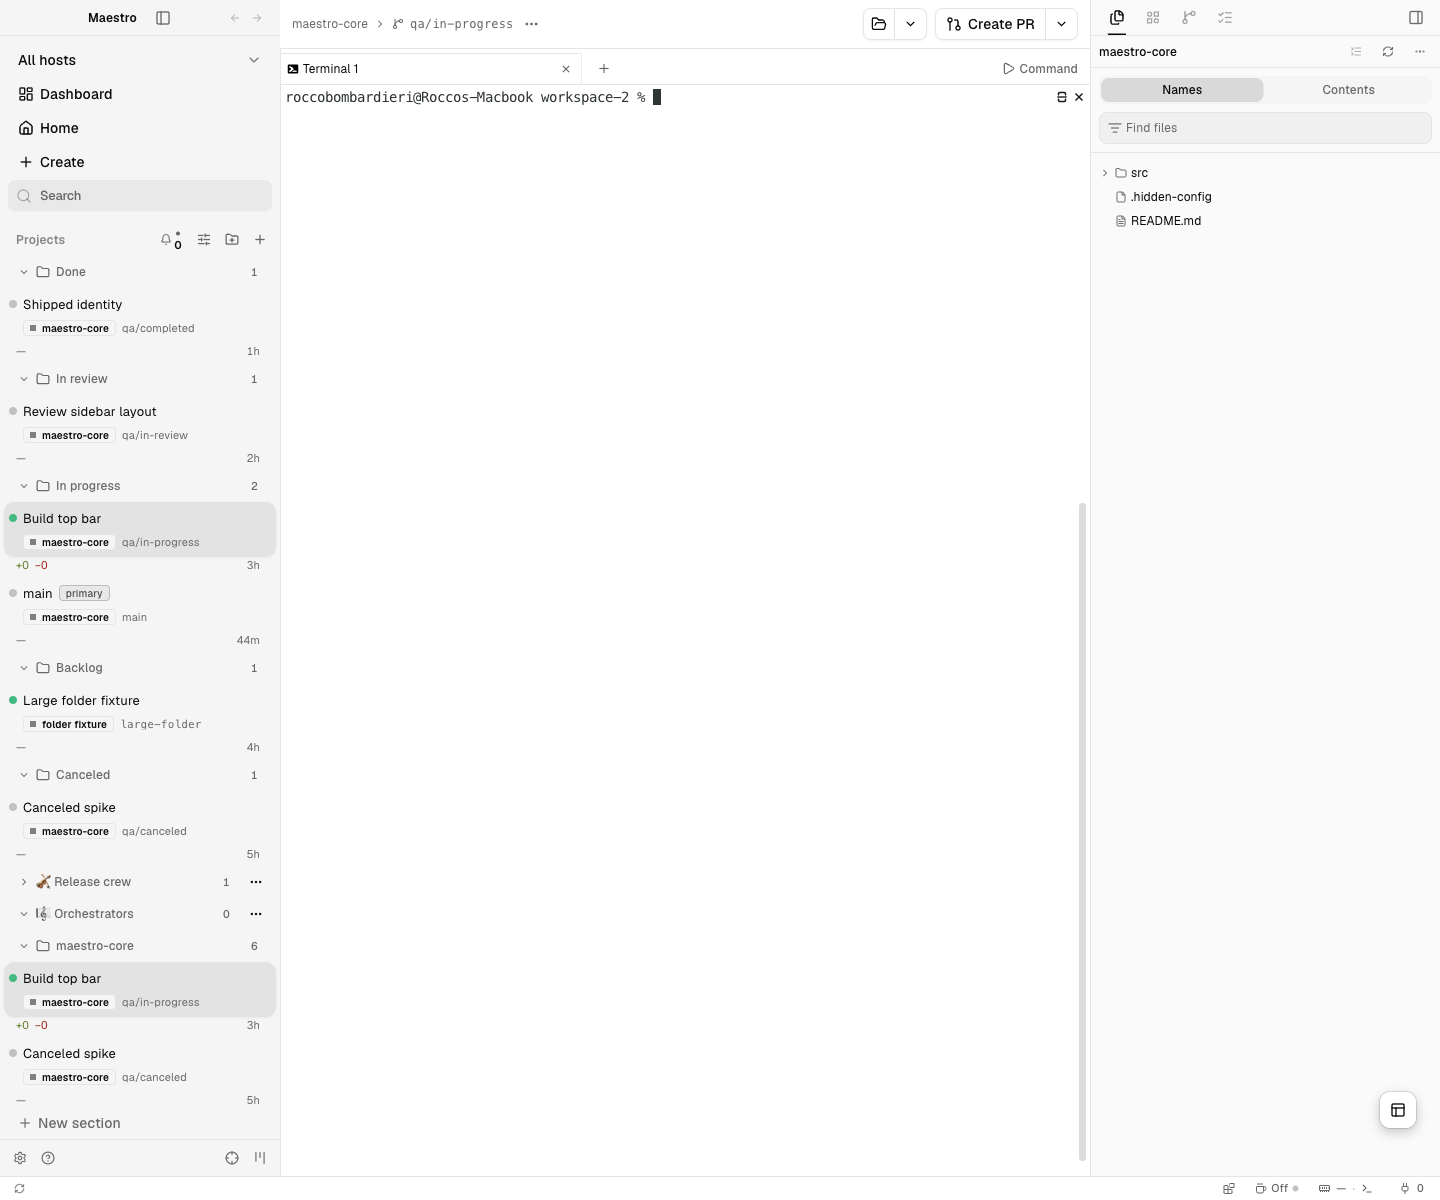
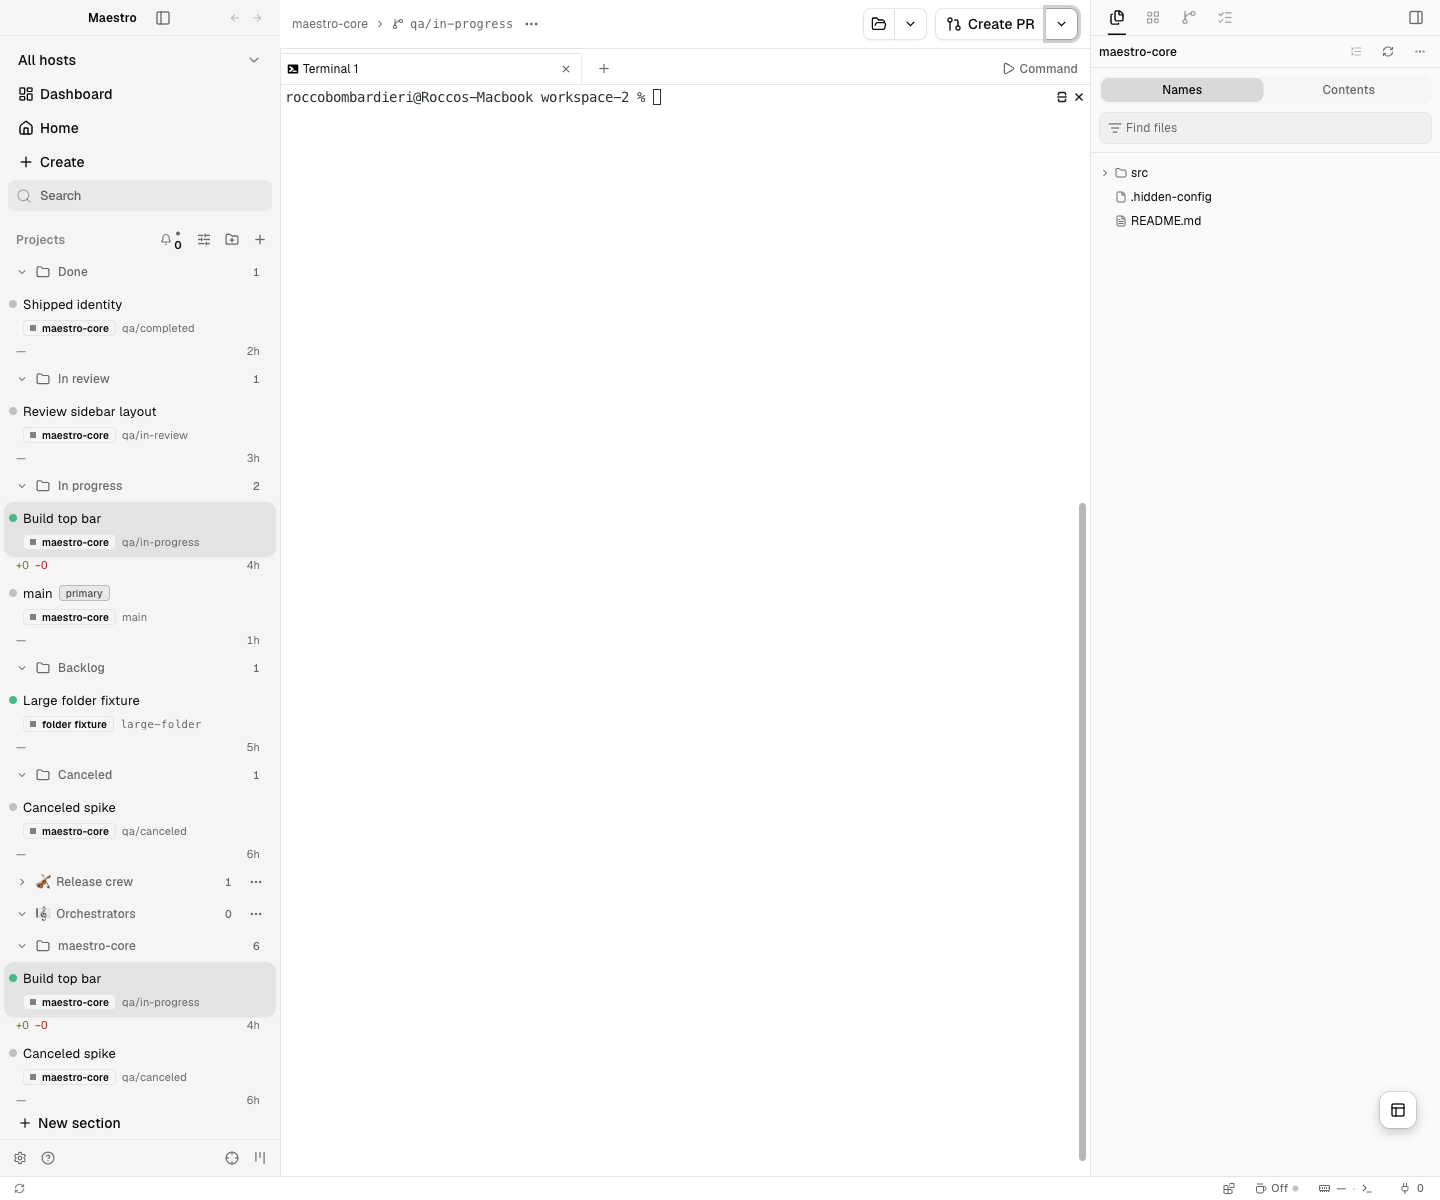
docs: finalize Maestro QA evidence and gate limits
Record the scoped quality passes, relay rerun, rebuilt control screenshots, and explicit broad-suite/type-aware limits without claiming a full aggregate pass.

diff --git a/qa-rocco/REPORT.md b/qa-rocco/REPORT.md
@@ -6,21 +6,39 @@ CLI fixtures, installation/sync tooling, package signing, verification and hando
 
 ## Checks
 
-| Check                                                                                             | Result                                                                                                                                                              |
-| ------------------------------------------------------------------------------------------------- | ------------------------------------------------------------------------------------------------------------------------------------------------------------------- |
-| `pnpm tc`                                                                                         | Passed, including a fresh run after the sidebar change.                                                                                                             |
-| Focused CLI, credentials, profile/startup, status, host ownership, dotfile and virtual-list tests | 42 files passed; 158 tests passed; 2 files / 10 tests skipped by platform guards.                                                                                   |
-| `pnpm check:react-compiler-compat-ratchet`                                                        | Passed; no new compiler baseline exception.                                                                                                                         |
-| `pnpm check:changed --base=rocco/main --maxWorkers=2`                                             | Final run in progress; result to be recorded before handoff.                                                                                                        |
-| Sync shell syntax and installer JavaScript syntax                                                 | Passed.                                                                                                                                                             |
-| Disposable Git sync fixture                                                                       | Passed merge, unchanged baseline, cleanup, no-op detection and conflict report/exit checks. pnpm validation commands were stubbed; see `upstream-sync-fixture.txt`. |
-| Disposable-HOME installer fixture                                                                 | Passed installation/replacement, relative framework symlinks, operation after deleting the source, and staging/backup cleanup.                                      |
-| Packaged macOS arm64 app                                                                          | Passed electron-builder packaging and `codesign --verify --deep --strict`; bundle ID `dev.rocco.maestro`, ad hoc signature.                                         |
-| Hidden packaged Electron / CDP                                                                    | Passed isolated HOME/userData and invisible, unfocused window checks; saved sections survived app restart.                                                          |
+| Check                                                                                             | Result                                                                                                                                                                  |
+| ------------------------------------------------------------------------------------------------- | ----------------------------------------------------------------------------------------------------------------------------------------------------------------------- |
+| `pnpm tc`                                                                                         | Passed, including a fresh run after the sidebar change.                                                                                                                 |
+| Focused CLI, credentials, profile/startup, status, host ownership, dotfile and virtual-list tests | 42 files passed; 158 tests passed; 2 files / 10 tests skipped by platform guards.                                                                                       |
+| `pnpm check:react-compiler-compat-ratchet`                                                        | Passed; no new compiler baseline exception.                                                                                                                             |
+| `pnpm check:changed --base=rocco/main --maxWorkers=2`                                             | Full aggregate remains unverified: the 30-minute run timed out in related tests and type-aware lint. Generated JSON formatting was corrected; scoped results are below. |
+| Sync shell syntax and installer JavaScript syntax                                                 | Passed.                                                                                                                                                                 |
+| Disposable Git sync fixture                                                                       | Passed merge, unchanged baseline, cleanup, no-op detection and conflict report/exit checks. pnpm validation commands were stubbed; see `upstream-sync-fixture.txt`.     |
+| Disposable-HOME installer fixture                                                                 | Passed installation/replacement, relative framework symlinks, operation after deleting the source, and staging/backup cleanup.                                          |
+| Packaged macOS arm64 app                                                                          | Passed electron-builder packaging and `codesign --verify --deep --strict`; bundle ID `dev.rocco.maestro`, ad hoc signature.                                             |
+| Hidden packaged Electron / CDP                                                                    | Passed isolated HOME/userData and invisible, unfocused window checks; saved sections survived app restart.                                                              |
 
 Commands used the previous session's cached Node 24.22.2 and pnpm 12.14.0.
 Focused tests used a disposable HOME with global/system Git config disabled.
 Native-focus tests remain excluded on the user's desktop.
+
+The broad run completed 39 checks successfully before reporting formatting of
+`final-launch-isolation.json` and the two 30-minute limits. The JSON was formatted.
+It also logged one failure in the delegated-phone locator integration case before
+timing out; running its entire file directly with a disposable HOME passed all
+18 tests. That failure did not reproduce, and no relay test or source was changed.
+
+After fixing 14 design-system diagnostics, all eight non-type-aware changed-line
+lint/structural checks passed across 110 changed source files against rocco/main;
+see `scoped-quality.json`. Type-aware lint of `cli-installer.ts` separately returned
+zero diagnostics. The complete type-aware scan did not finish, so this is scoped
+evidence under AGENTS.md's excessive-selection fallback, not a full quality pass.
+The final host-picker/list/status test selection passed 4 files / 15 tests after
+the style fixes, also under a disposable HOME. Some overlap the earlier selection.
+
+The final aggregate command is repeated after the last edit/commit with
+`--base=rocco/main --maxWorkers=2 --timeout=10`, retaining a bounded local budget.
+Full-suite success is not inferred from the focused passes.
 
 The package reused completed desktop/native assets, rebuilt the modified main and
 renderer targets, projected the web client, checked the Electron native runtime,
@@ -48,6 +66,11 @@ Conductor references. Maestro retains Orca's tokens and primitives.
 | `final-launch-isolation.json`         | Finished package's invisible/unfocused window and disposable profile paths.                                                                       |
 | `restart-persistence.json`            | Saved name/emoji/assignment survived app restart; expand/collapse and reorder worked through the UI and survived reload; no page errors observed. |
 
+The final Open in/PR captures also verify the existing ButtonGroup primitive;
+`control-composition.json` records opening both menus and the host chooser without
+page errors. Section headers use the existing menu size, and HostCombobox keeps
+its outline default while Maestro requests the ghost variant.
+
 The sidebar's direct virtualizer call was replaced with Orca's existing
 `VirtualizedList`; row-dependent height estimates preserve header/card sizing.
 Rendered rows remained present after the refactor. An onboarding-tip transition
@@ -62,7 +85,8 @@ Its installer symlink and empty-sync PR findings were fixed. Local helper builds
 also now avoid automatic certificate discovery. No outstanding review findings.
 
 Windows/Linux installers, native-focus behavior, real SSH/editor launches and the
-release matrix need their platform environments. The scheduled workflow must be
+release matrix need their platform environments. Mobile and dark-theme rendering
+were not exercised during this resume. The scheduled workflow must be
 present on the fork's default branch before GitHub will schedule it. No real
 upstream merge, PR, issue, app installation or change to official Orca data,
 credentials, `~/.maestro-smoke` or the control-plane LaunchAgent was performed.

diff --git a/NOTES-core.md b/NOTES-core.md
@@ -34,12 +34,19 @@ Branch: `rocco/core` in the existing isolated Orca-core worktree.
 - Focused checks: 42 files / 158 tests passed; 2 files / 10 tests platform-skipped.
   Covers CLI, credentials, startup/profile isolation, status, host registry,
   dotfiles and shared virtual-list behavior.
+- Final design-system fixes use ButtonGroup, menu-sized headers and an optional
+  ghost host chooser; all eight non-type-aware changed-line scans passed across
+  110 source files. Full typecheck and 4 UI test files / 15 tests passed afterward.
 - React Compiler ratchet passed. Sync success/no-op/conflict fixture passed with
   real disposable Git worktrees and pnpm validation commands stubbed.
 - Packaged Maestro launched only hidden with disposable HOME/userData. Saved
   section settings survived restart; collapse, reorder and reload checks passed.
   Final screenshots were inspected at 1440×1200 and 1280×800 CSS viewports.
-- The final `check:changed` result and coverage limits belong in
+- Broad `check:changed` hit its 30-minute limits in related tests/type-aware lint.
+  Its one logged relay failure did not reproduce: the full relay file passed all
+  18 tests with a disposable HOME. Generated evidence formatting was fixed.
+  A final 10-minute-per-step aggregate rerun follows the last edit/commit.
+- The `check:changed` evidence and coverage limits are recorded in
   [qa-rocco/REPORT.md](qa-rocco/REPORT.md). Do not infer broad gate success from
   focused checks. Branding-related test selection fans out widely.
 
@@ -66,4 +73,5 @@ The local package omits the optional cross-platform orcad template; release-matr
 and non-macOS installers require their own environments. No local app was installed.
 Official Orca data, real SSH/git credentials, ~/.maestro-smoke and the control-plane
 LaunchAgent were not modified. See ROCCO.md and qa-rocco/REPORT.md for evidence and
-remaining platform coverage. Push target: `git push origin rocco/core`.
+remaining platform coverage. All known code findings are fixed; full aggregate
+success is not claimed. Push target: `git push origin rocco/core`.

diff --git a/CHANGELOG.md b/CHANGELOG.md
@@ -13,7 +13,9 @@
 - Added local build/install commands, `ROCCO.md`, and weekly upstream sync tooling.
 - Preserved Orca CLI coexistence and framework symlinks during Maestro installation;
   made local helper signing ad hoc and reused the shared virtual list for compiler
-  compatibility. Verification and screenshots live in `qa-rocco/REPORT.md`.
+  compatibility. Split controls and host/section buttons use existing design-system
+  APIs. Verification, screenshots and aggregate gate limits live in
+  `qa-rocco/REPORT.md`.
 - Revert: revert the Maestro feature commits on `rocco/core`; the General setting
   disables Conductor sections independently. Keep a backup of the Maestro profile
   before downgrading.
